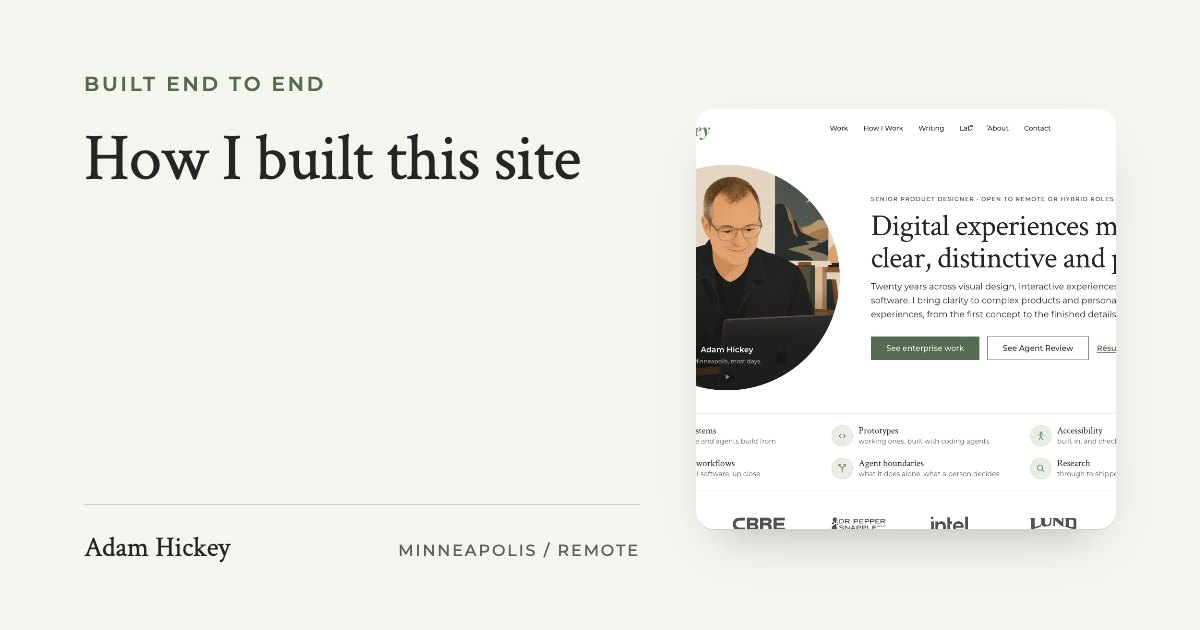
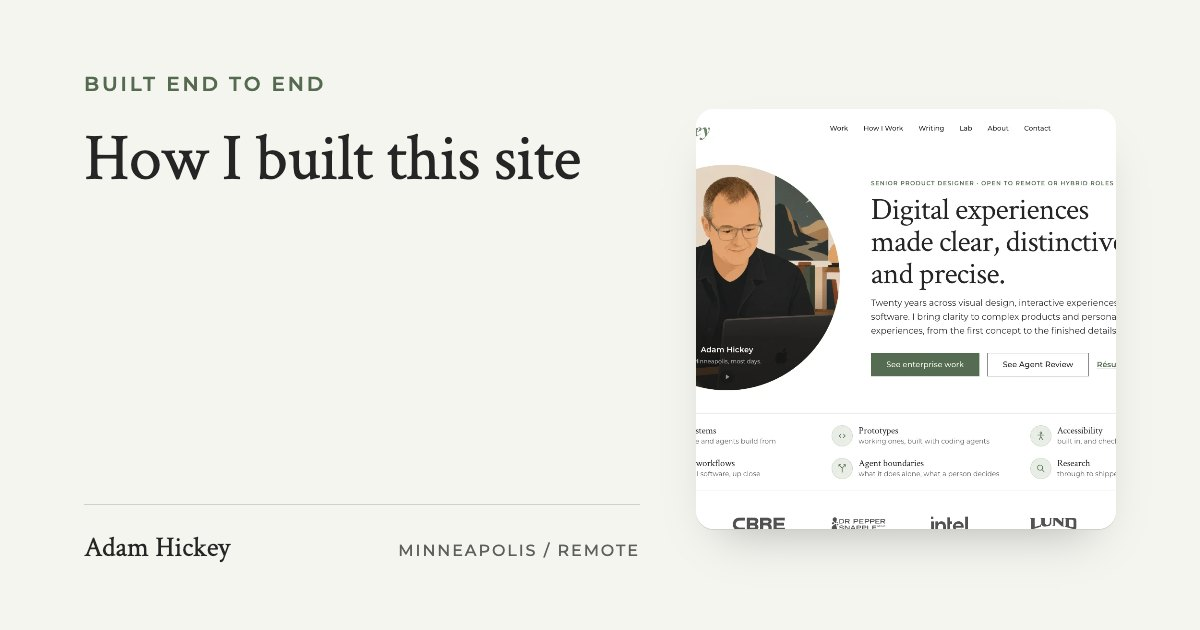
The serial comma in the new lines, at Adam's word: "clear, distinctive, and precise" and "visual design, interactive experiences, and enterprise software" in the h1 and dek, the og:description, the share card, the capture and the write-up's alt, llms.txt's summary, and variant.mjs's base dek; captur

Changed region(s): [[0.7092, 0.2714, 0.925, 0.6032]]

diff --git a/index.html b/index.html
@@ -21,7 +21,7 @@
 
   <meta name="color-scheme" content="light" />
   <meta property="og:title" content="Adam Hickey | Senior Product Designer for Complex Software" />
-  <meta property="og:description" content="Digital experiences made clear, distinctive and precise. Twenty years across visual design, interactive experiences and enterprise software: clarity for complex products and personality for digital experiences, from the first concept to the finished details." />
+  <meta property="og:description" content="Digital experiences made clear, distinctive, and precise. Twenty years across visual design, interactive experiences, and enterprise software: clarity for complex products and personality for digital experiences, from the first concept to the finished details." />
   <meta property="og:type" content="website" />
   <!-- Absolute because scrapers do not resolve a relative og:image, and the
        canonical origin is the production one whichever host is serving this:
@@ -30,7 +30,7 @@
        "How a change reaches the live site". -->
   <link rel="canonical" href="https://adamhickey.com/" />
   <meta property="og:url" content="https://adamhickey.com/" />
-  <meta property="og:image" content="https://adamhickey.com/img/og/index.jpg?v=6" />
+  <meta property="og:image" content="https://adamhickey.com/img/og/index.jpg?v=7" />
   <meta property="og:image:width" content="1200" />
   <meta property="og:image:height" content="630" />
   <meta name="twitter:card" content="summary_large_image" />
@@ -51,7 +51,7 @@
           "jobTitle": "Senior Product Designer",
           "description": "Senior product designer for complex enterprise software, design systems and agentic workflows, who builds what he designs, in Minneapolis.",
           "url": "https://adamhickey.com/",
-          "image": "https://adamhickey.com/img/og/index.jpg?v=6",
+          "image": "https://adamhickey.com/img/og/index.jpg?v=7",
           "email": "mailto:adam@adamhickey.com",
           "address": {
             "@type": "PostalAddress",
@@ -85,7 +85,7 @@
           "name": "Adam Hickey — Product Design",
           "description": "Adam Hickey's independent product design practice in Minneapolis, for complex enterprise software: design systems, modernizing legacy products, and AI product prototypes. Twenty years inside enterprise platforms, design systems, and products that outgrew their original shape.",
           "url": "https://adamhickey.com/",
-          "image": "https://adamhickey.com/img/og/index.jpg?v=6",
+          "image": "https://adamhickey.com/img/og/index.jpg?v=7",
           "founder": {
             "@id": "https://adamhickey.com/#adam"
           },
@@ -392,7 +392,7 @@
                liked the unified direction's pair ("Making digital experiences
                clear, distinctive, and beautifully designed." over a 45-word
                dek) and asked for it here, shorter. The title keeps its three
-               words in seven: "Digital experiences made clear, distinctive
+               words in seven: "Digital experiences made clear, distinctive,
                and precise." The dek is the twenty years across the three
                kinds of work, then what he brings to each, in 30 words. The
                agents left the dek: Agent Review keeps the second button and
@@ -400,7 +400,7 @@
                searches. The share card, og:description and llms.txt's summary
                moved with it; the <title> and description are search language
                and stayed. -->
-<h1 class="hero-title">Digital experiences made clear, distinctive and precise.</h1>
+<h1 class="hero-title">Digital experiences made clear, distinctive, and precise.</h1>
           <!-- ONE PARAGRAPH, since 2026-10-09. The thesis came out: "AI is
                changing the shape of product design" is the one sentence on
                the page every reader already believes, and "I'm exploring
@@ -481,7 +481,7 @@
                whether he had stopped. The dek from before that morning is
                back, bold and all. The building stays where #588 put it
                lower down: About, the Built header and the résumés. -->
-          <p class="hero-invite reveal">Twenty years across visual design, interactive experiences and enterprise software. I bring clarity to complex products and personality to digital experiences, from the first concept to the finished details.</p>
+          <p class="hero-invite reveal">Twenty years across visual design, interactive experiences, and enterprise software. I bring clarity to complex products and personality to digital experiences, from the first concept to the finished details.</p>
           <!-- THE WORK LEADS, since 2026-09-19. "Start a conversation" was
                the filled button and "See selected work" the ghost beside it:
                two primary asks in one row, and the first of them asking for

diff --git a/case-study/this-site.html b/case-study/this-site.html
@@ -19,7 +19,7 @@
   <meta property="og:url" content="https://adamhickey.com/case-study/this-site.html" />
   <meta property="og:title" content="How I built this site | Adam Hickey" />
   <meta property="og:description" content="How adamhickey.com is built: thirty-eight pages of plain HTML with no framework and no build step, three token files under four normative specs, and eleven checks that measure the rendered page before anything ships." />
-  <meta property="og:image" content="https://adamhickey.com/img/og/this-site.jpg?v=6" />
+  <meta property="og:image" content="https://adamhickey.com/img/og/this-site.jpg?v=7" />
   <meta property="og:image:width" content="1200" />
   <meta property="og:image:height" content="630" />
   <meta name="twitter:card" content="summary_large_image" />
@@ -40,7 +40,7 @@
           "description": "A build write-up for adamhickey.com: thirty-eight pages of plain HTML with no framework and no build step, three token files under four normative specs, and eleven checks that measure the rendered page before anything ships.",
           "url": "https://adamhickey.com/case-study/this-site.html",
           "mainEntityOfPage": "https://adamhickey.com/case-study/this-site.html",
-          "image": "https://adamhickey.com/img/og/this-site.jpg?v=6",
+          "image": "https://adamhickey.com/img/og/this-site.jpg?v=7",
           "datePublished": "2026-09-17",
           "dateModified": "2026-10-26",
           "author": {
@@ -238,8 +238,8 @@
              sits one click away would be the one dishonest picture here. -->
         <figure class="build-shot">
           <div class="build-laptop"><div class="build-laptop-lid">
-              <img src="../img/site/this-site.webp?v=7" width="1400" height="875" fetchpriority="high" decoding="async"
-                   alt="The homepage of this site at laptop width: the wordmark and six section links across the top, the portrait in a circle on the left, and on the right the eyebrow Senior Product Designer &middot; Open to remote or hybrid roles over the title &ldquo;Digital experiences made clear, distinctive and precise.&rdquo;, a three-line dek beginning &ldquo;Twenty years across visual design, interactive experiences and enterprise software.&rdquo;, a green See enterprise work button, an outlined See Agent Review button and a R&eacute;sum&eacute; link. Under the pair, six facts in two rows of three, each with a small line icon in a pale disc, among them Agent boundaries, and a row of six client wordmarks along the bottom." />
+              <img src="../img/site/this-site.webp?v=8" width="1400" height="875" fetchpriority="high" decoding="async"
+                   alt="The homepage of this site at laptop width: the wordmark and six section links across the top, the portrait in a circle on the left, and on the right the eyebrow Senior Product Designer &middot; Open to remote or hybrid roles over the title &ldquo;Digital experiences made clear, distinctive, and precise.&rdquo;, a three-line dek beginning &ldquo;Twenty years across visual design, interactive experiences, and enterprise software.&rdquo;, a green See enterprise work button, an outlined See Agent Review button and a R&eacute;sum&eacute; link. Under the pair, six facts in two rows of three, each with a small line icon in a pale disc, among them Agent boundaries, and a row of six client wordmarks along the bottom." />
             </div></div>
         </figure>
 
